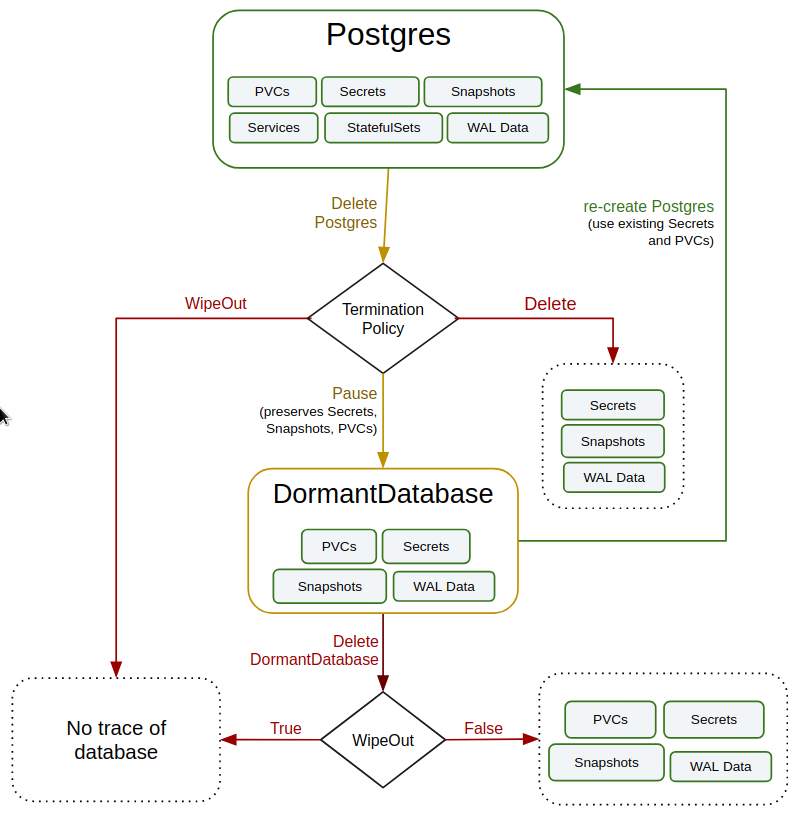
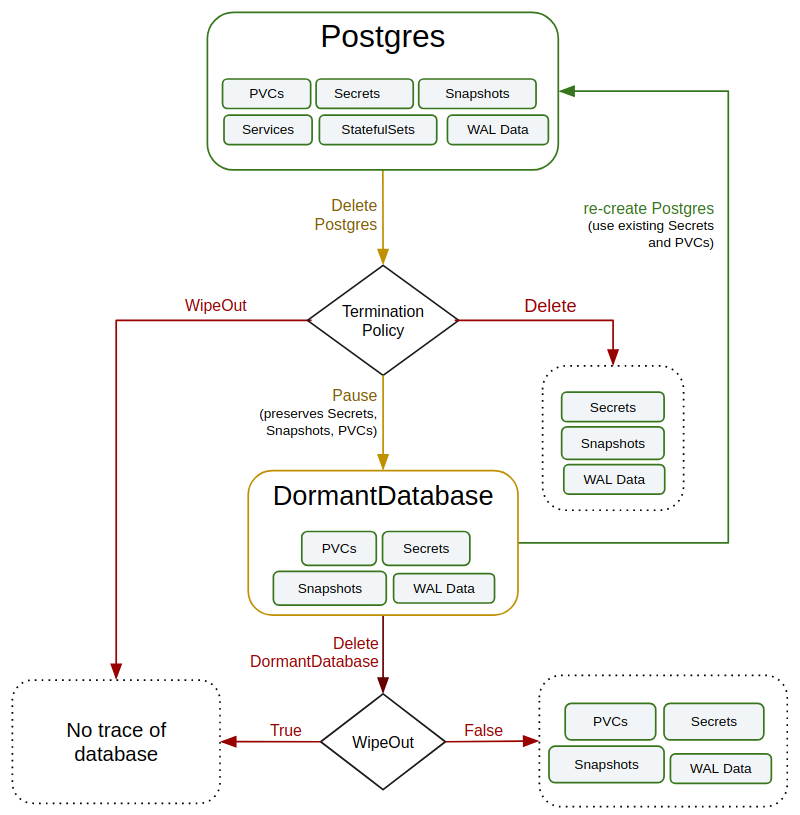
fixed resolution

diff --git a/docs/guides/postgres/quickstart/quickstart.md b/docs/guides/postgres/quickstart/quickstart.md
@@ -16,7 +16,7 @@ section_menu_id: guides
 This tutorial will show you how to use KubeDB to run a PostgreSQL database.
 
 <p align="center">
-  <img alt="lifecycle"  src="/docs/images/postgres/lifecycle.png" width="600" height="660">
+  <img alt="lifecycle"  src="/docs/images/postgres/lifecycle.png">
 </p>
 
 ## Before You Begin

diff --git a/docs/guides/postgres/README.md b/docs/guides/postgres/README.md
@@ -42,7 +42,7 @@ aliases:
 ## Life Cycle of a PostgreSQL Object
 
 <p align="center">
-  <img alt="lifecycle"  src="/docs/images/postgres/lifecycle.png" width="600" height="660">
+  <img alt="lifecycle"  src="/docs/images/postgres/lifecycle.png">
 </p>
 
 <br/>
